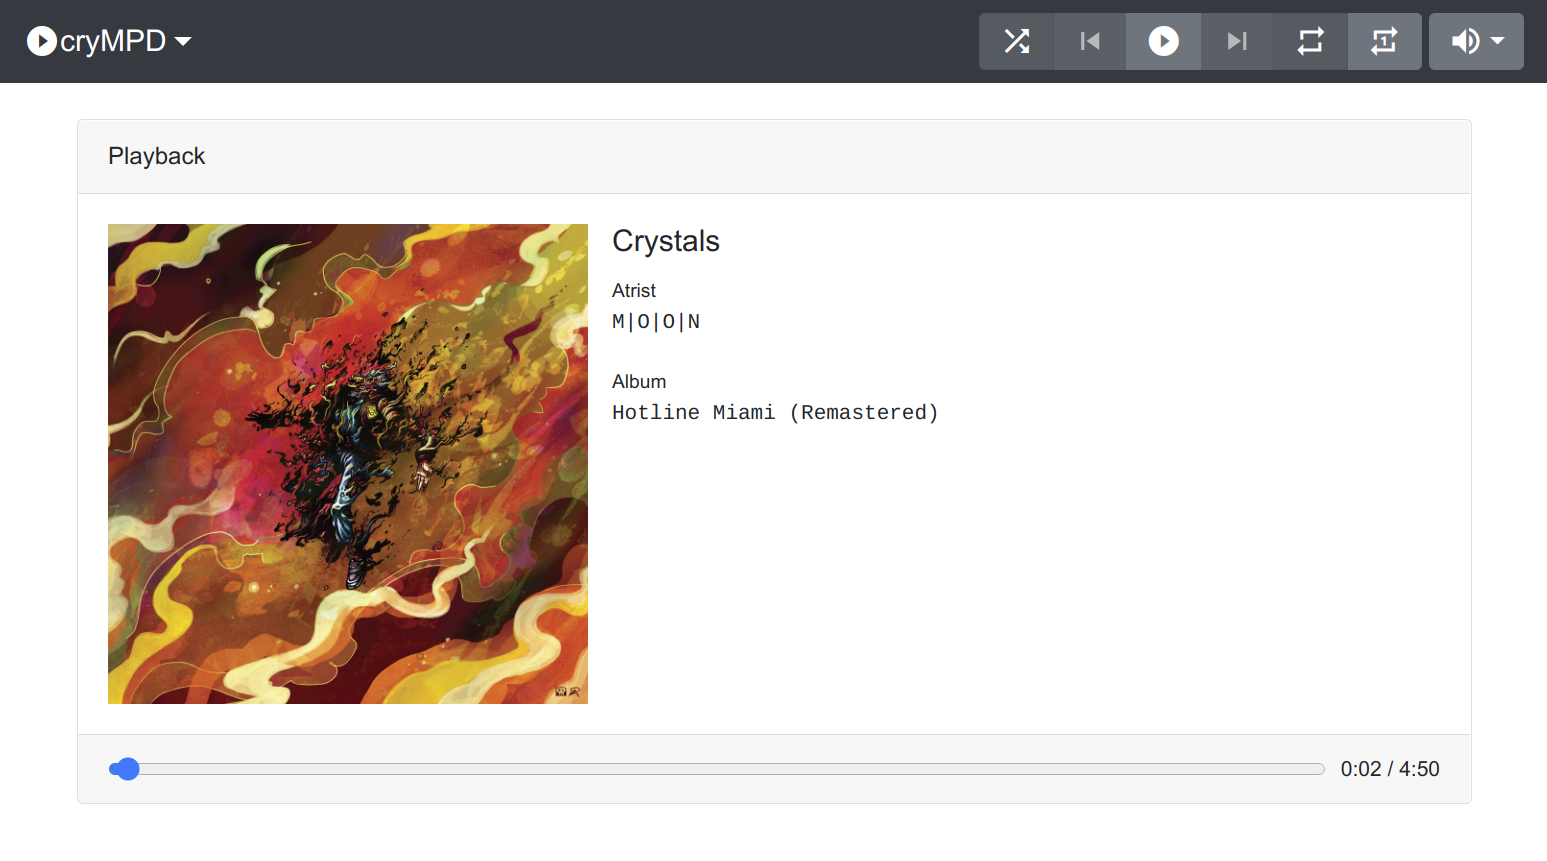
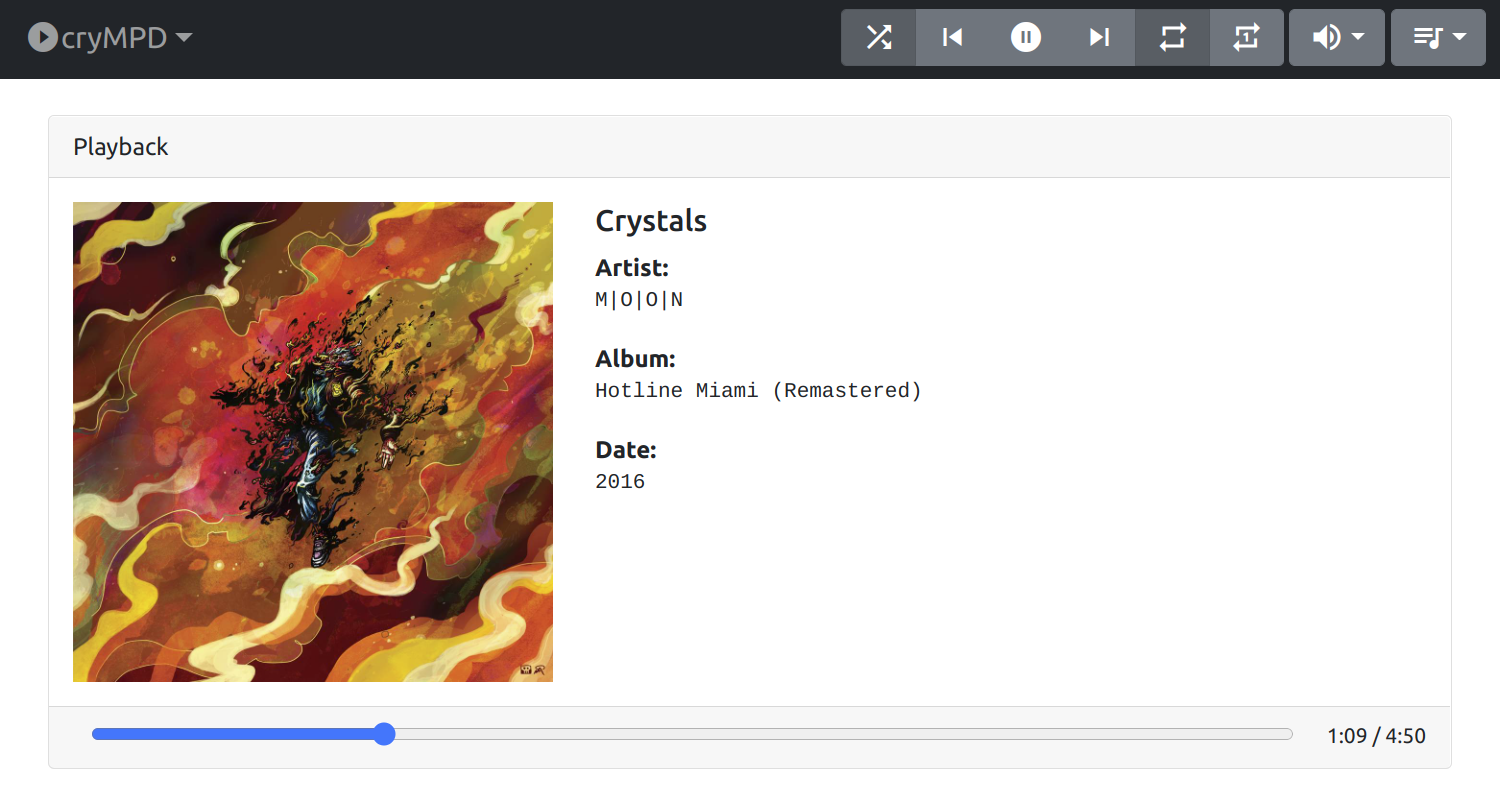
add date to song info

diff --git a/assets/js/application.js b/assets/js/application.js
@@ -248,6 +248,7 @@ function changeCurrentSong(song) {
   $("#currentSong #artist").html(song["Artist"]);
   $("#currentSong #title").html(song["Title"]);
   $("#currentSong #album").html(song["Album"]);
+  $("#currentSong #date").html(song["Date"]);
 
   $("#playlistTable tr").removeClass("table-primary");
   $("#playlistTable tr#" + song["Pos"]).addClass("table-primary");
